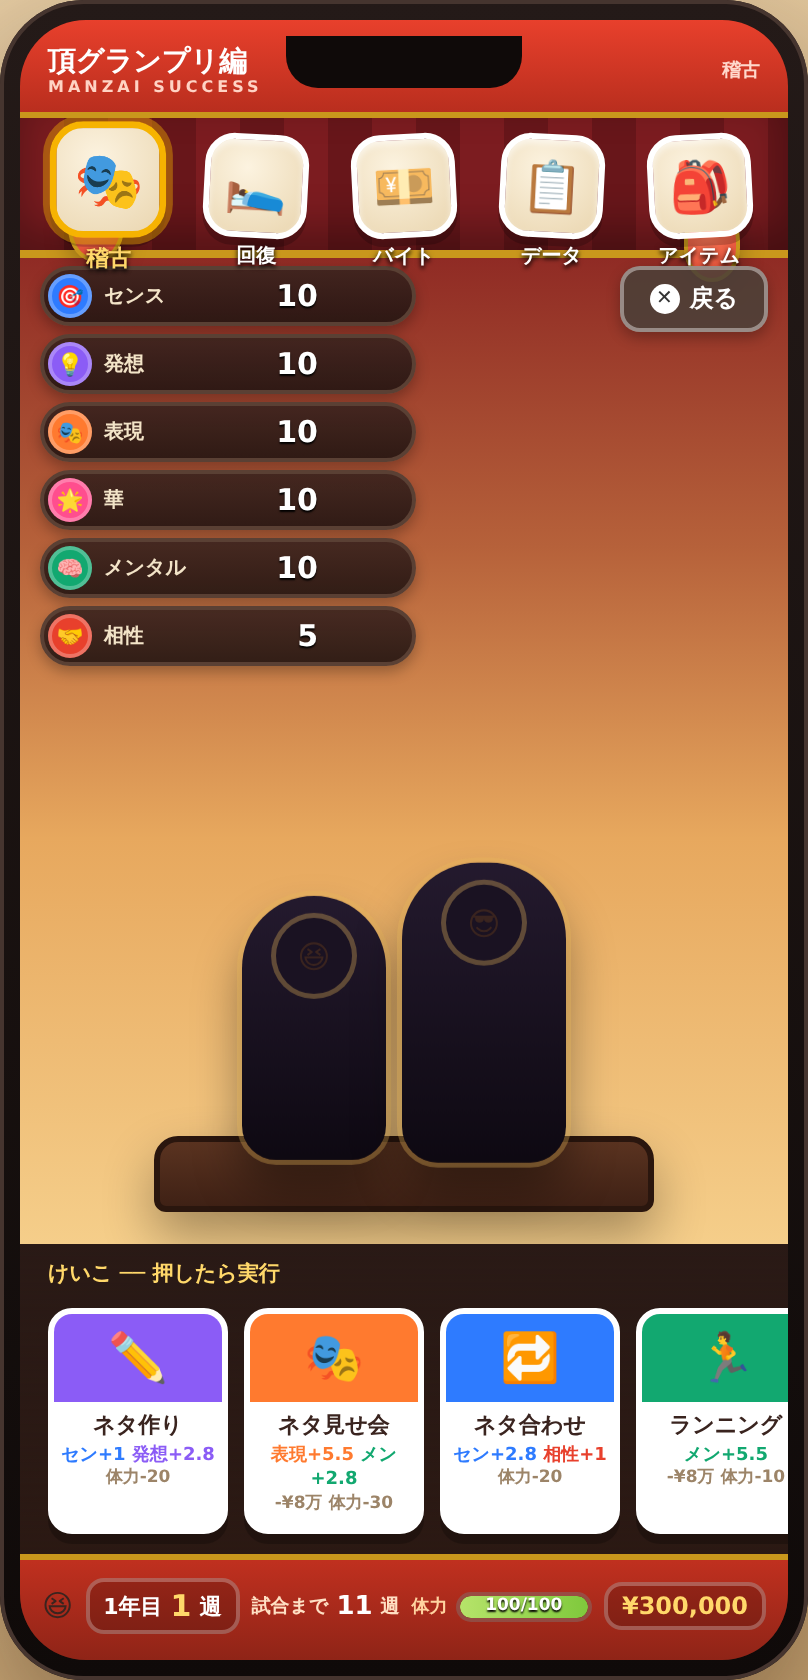
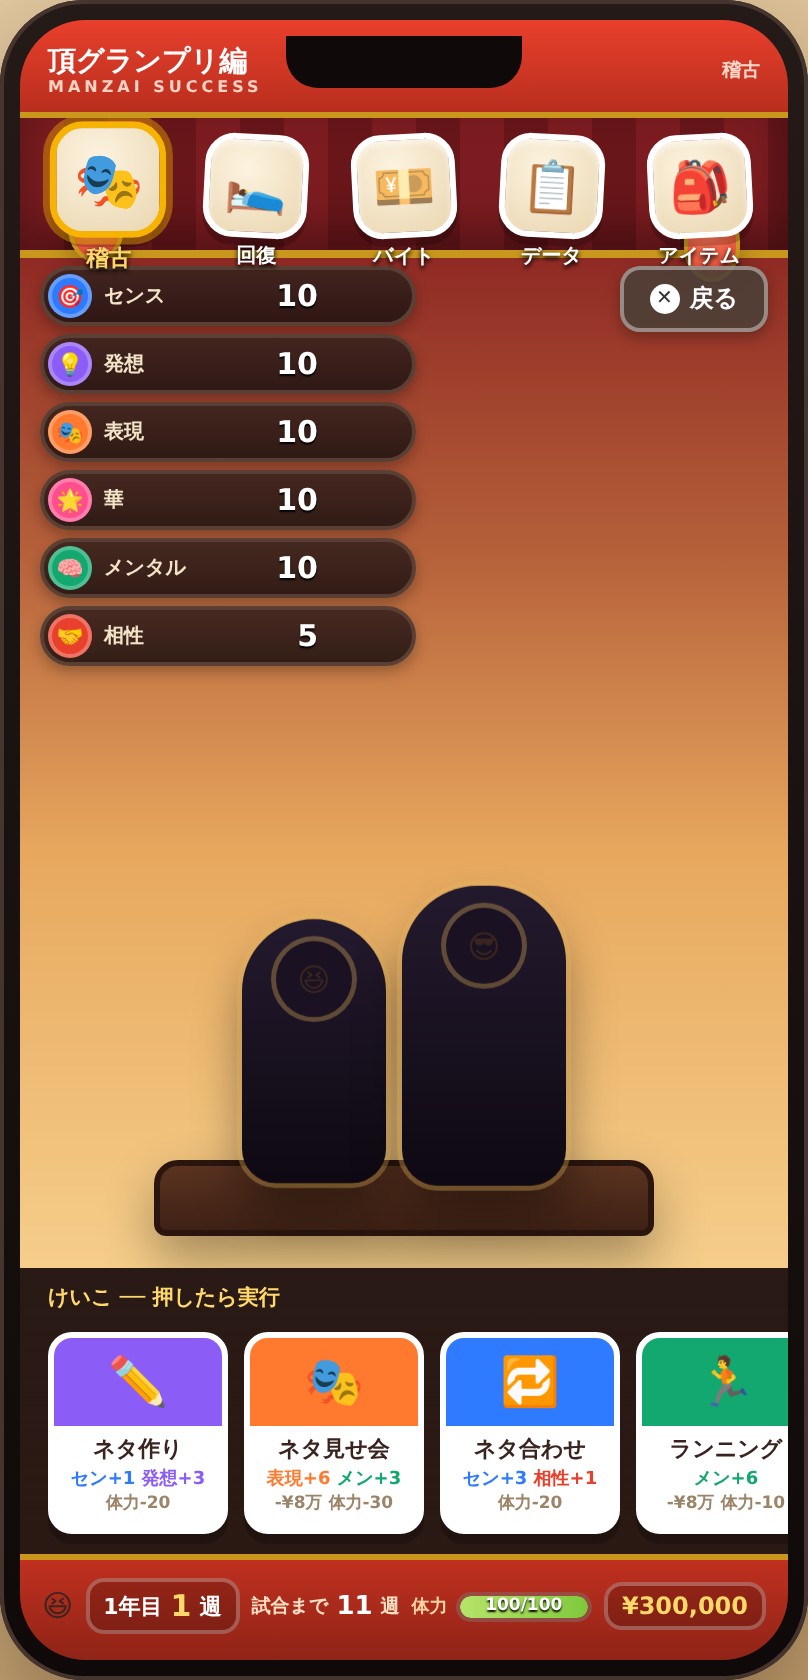
育成UIモックv7: 伸びの表示を整数化(2.8→3の気持ち悪さ解消)
オーナー指摘「2.8が気持ち悪い」。表示を整数に丸めた。ただし
「現在値の整数→実行後の整数の差」で計算するので、カードの予告＝
バーの見た目の変化が必ず一致（内部の小数とズレない）。高ステで
伸びが整数で0なら「伸びわずか」と出す（成長逓減の体感＝10年で
すぐマックスしない設計の可視化）。ブラウザ検証済。

Claude-Session: https://claude.ai/code/session_01NrVji4cg1Rwnn2EMQg4RTY

Changed region(s): [[0.0309, 0.65, 0.9901, 0.8976], [0.495, 0.4952, 0.7116, 0.5881], [0.2785, 0.5262, 0.495, 0.619]]

diff --git a/docs/ui_mockup_pawapuro_v7.html b/docs/ui_mockup_pawapuro_v7.html
@@ -1,4 +1,4 @@
-<!doctype html><html lang="ja"><head><meta charset="utf-8"><meta name="viewport" content="width=device-width,initial-scale=1"><title>漫才師育成SLG 育成メイン v7（パワプロ2022式トップメニュー・決定ボタン無し・押したら実行・ブラウザ検証済）</title></head><body>
+<!doctype html><html lang="ja"><head><meta charset="utf-8"><meta name="viewport" content="width=device-width,initial-scale=1"><title>漫才師育成SLG 育成メイン v7（パワプロ2022式・決定ボタン無し・伸びは整数表示）</title></head><body>
 <style>
   :root{
     --cream:#F7EACE; --ink:#3A241F; --dim:#9c8468;
@@ -242,12 +242,17 @@
   function drawPills(){
     $('pills').innerHTML=AX.map(a=>`<div class="pill"><span class="pic" style="background:${a.c}">${a.e}</span><span class="pnm">${a.nm}</span><span class="pval">${Math.round(S[a.k])}</span><span class="pplus" id="pl_${a.k}"></span></div>`).join('');
   }
+  // 表示は整数（現在値の整数→実行後の整数の差）＝バーの見た目の変化と必ず一致
+  function idg(after,before,k){return Math.round(after[k])-Math.round(before[k]);}
   function previewHtml(v){
-    if(v.type==='job'){return `<span style="color:var(--money)">+¥${v.spec.income/10000}万</span><span class="cst">体力${v.spec.stam}</span>`;}
-    if(v.type==='rest'){const b=v.spec.bonus,a=AX.find(x=>x.k===b[0]); return `<span style="color:var(--mental)">体力+${v.spec.recovery}</span><span class="cst">${a?a.nm+' +'+b[1]:''}</span>`;}
-    const g=gainsOf(v); const main=Object.keys(g).map(k=>{const a=AX.find(x=>x.k===k);return `<span style="color:${a.c}">${a.nm.slice(0,2)}+${fmtG(g[k])}</span>`;}).join(' ');
-    const cost=v.spec.cost>0?`-¥${v.spec.cost/10000}万 体力${v.spec.stam}`:`体力${v.spec.stam}`;
-    return `${main}<span class="cst">${cost}</span>`;
+    const after=apply(S,v); const parts=[];
+    if(v.type==='job') parts.push(`<span style="color:var(--money)">+¥${v.spec.income/10000}万</span>`);
+    AX.forEach(a=>{const d=idg(after,S,a.k); if(d>0)parts.push(`<span style="color:${a.c}">${a.nm.slice(0,2)}+${d}</span>`);});
+    let ability=parts.join(' ');
+    if(v.type==='train'&&!AX.some(a=>idg(after,S,a.k)>0)) ability='<span style="color:var(--dim)">伸びわずか</span>';
+    const dst=Math.round(after.stamina)-Math.round(S.stamina);
+    const cb=[]; if(v.spec.cost>0)cb.push(`-¥${v.spec.cost/10000}万`); cb.push(`体力${dst>=0?'+':''}${dst}`);
+    return `${ability}<span class="cst">${cb.join(' ')}</span>`;
   }
   function drawVwrap(){
     const w=$('vwrap');
@@ -285,8 +290,7 @@
   function execute(act){
     busy=true; const before=Object.assign({},S), after=apply(S,act); Object.assign(S,after); menu=null;
     $('flash').className='flash go'; setTimeout(()=>$('flash').className='flash',500); render();
-    const gains={}; AX.forEach(a=>{const d=after[a.k]-before[a.k]; if(d>0.05)gains[a.k]=d;});
-    Object.keys(gains).forEach(k=>{const el=$('pl_'+k); if(el){el.textContent='+'+fmtG(gains[k]); el.className='pplus show';}});
+    AX.forEach(a=>{const d=Math.round(after[a.k])-Math.round(before[a.k]); if(d>0){const el=$('pl_'+a.k); if(el){el.textContent='+'+d; el.className='pplus show';}}});
     AX.forEach(a=>{ if(rank(before[a.k])!==rank(after[a.k])) toast(a.nm+' ランクアップ！ '+rank(after[a.k])); });
     setTimeout(()=>{busy=false;nextWeek();},850);
   }